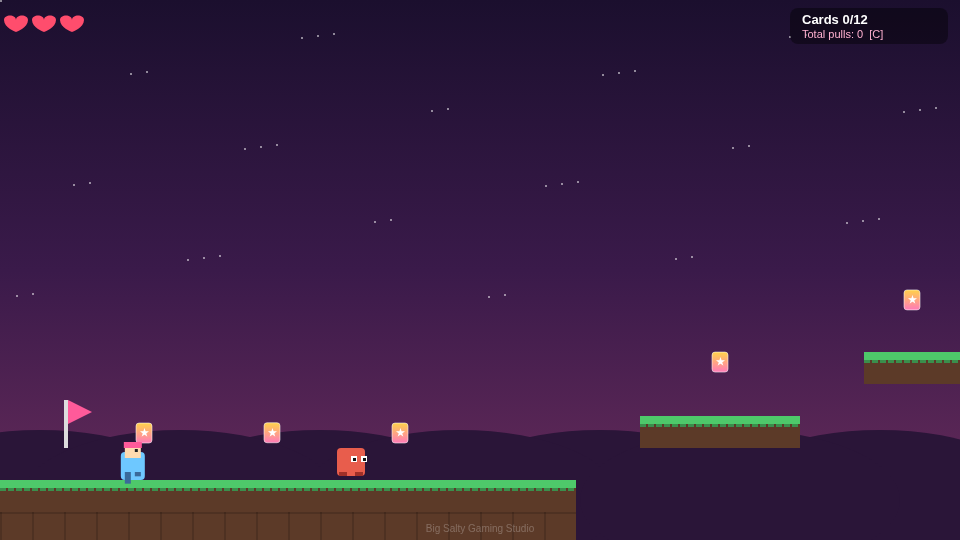
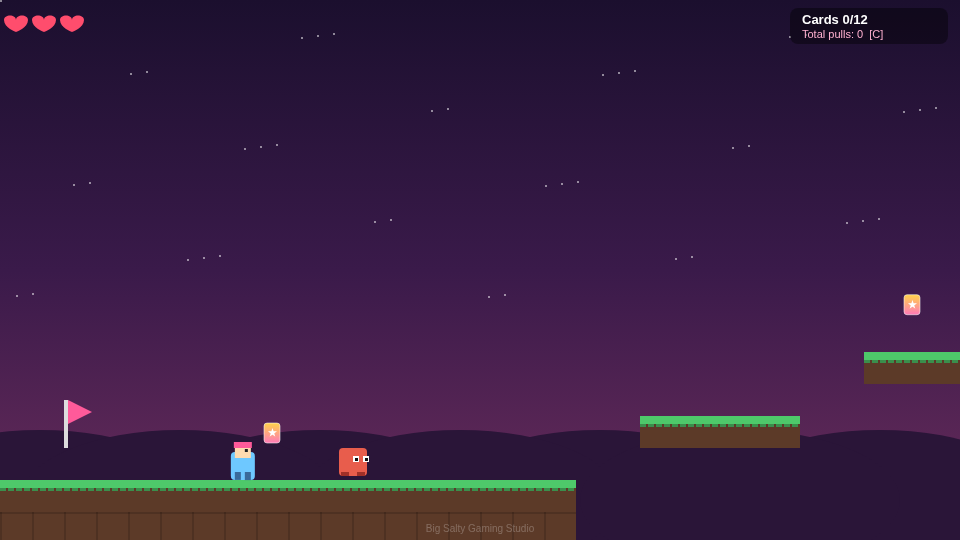
Reduce level collectibles to 6 sparse card-coins
Spread across start, optional highs, pit route, and end; keep
respawn-on-death. No remote push.

diff --git a/index.html b/index.html
@@ -385,14 +385,15 @@ const checkpoints = [
 
 // Coins (~18)
 function makeCoins() {
-  // Placed just above reachable platform tops (grabbed with a normal jump)
+  // Sparse set (~1/4 of prior 22): rare, rewarding, all reachable
+  // [tileX, tileY] — just above platform tops
   const spots = [
-    [4,13],[8,13],[12,13],
-    [22,11],[28,9],[35,11],
-    [43,13],[47,11],[50,9],[54,7],[58,5],
-    [57,13],[66,11],[71,9],[76,11],
-    [85,11],[89,9],[93,11],
-    [102,13],[111,11],[121,11],[124,13],
+    [8, 13],   // near start (easy)
+    [28, 9],   // early high stair (optional height)
+    [58, 5],   // peak of high ledge route (hardest optional)
+    [71, 9],   // over the pit floating platform
+    [89, 9],   // post-pit high ledge
+    [121, 11], // near the goal / end perch
   ];
   return spots.map(([tx,ty]) => ({
     x: tx*TILE + 8, y: ty*TILE + 4, w: 16, h: 20,

diff --git a/README.md b/README.md
@@ -18,6 +18,7 @@ On touch devices, on-screen buttons appear (← → jump C).
 
 ## Design notes (prototype)
 
+- **Collectibles**: **6** card-coins in the level (sparse: start, optional highs, pit, end). Respawns on death.
 - **Coins → cards**: touching a coin runs a ~1.2s slot/lottery roll panel at the top as an **overlay** — gameplay does **not** pause (move, jump, enemies, physics, camera all keep going). Extra coins touched during a roll are **queued** (queue count shown). The strip eases onto a **pre-planted** result card (no end snap). Short reveal (~0.275s) then `NEW!` / `DUPE` callout (~0.4s). Hits during a roll work normally; if you die mid-roll, the roll (and queue) still finish and grant cards; the lost card is picked from cards you already owned.
 - **Hearts**: 3 HP. Monster contact = −1 heart, knockback + invulnerability flash. Stomp from above to defeat enemies.
 - **Hearts → 0**: lose one random collected card (`LOST: <name>`), hearts reset to 3, respawn at last checkpoint. **All level coins/cards respawn** on that respawn.
